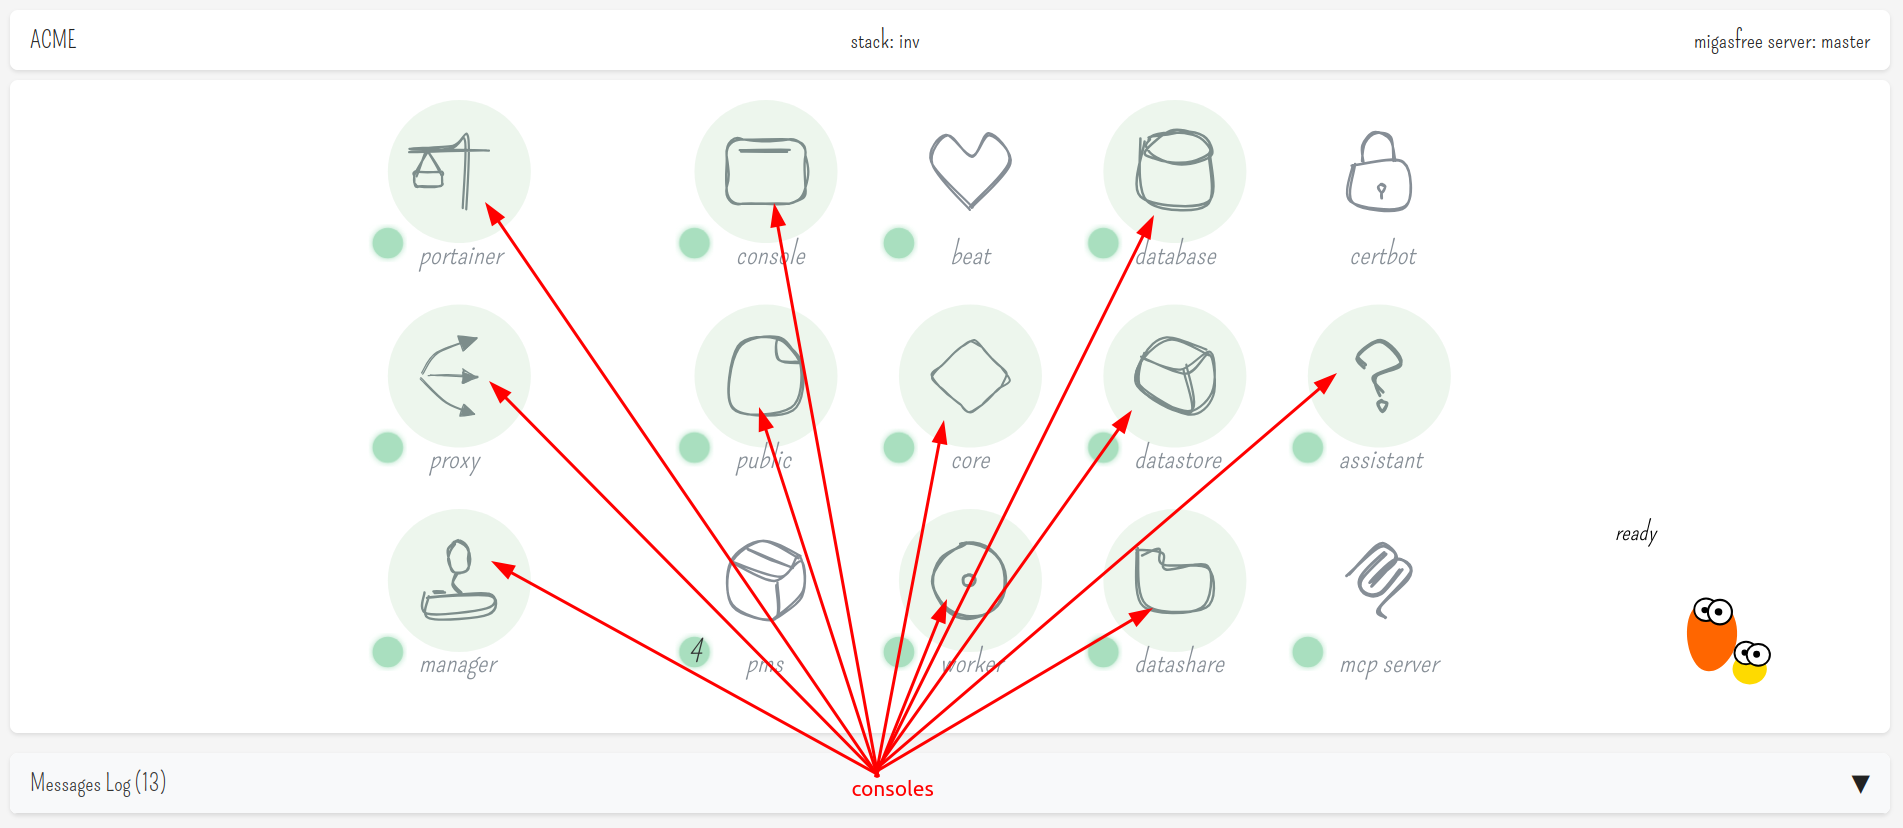
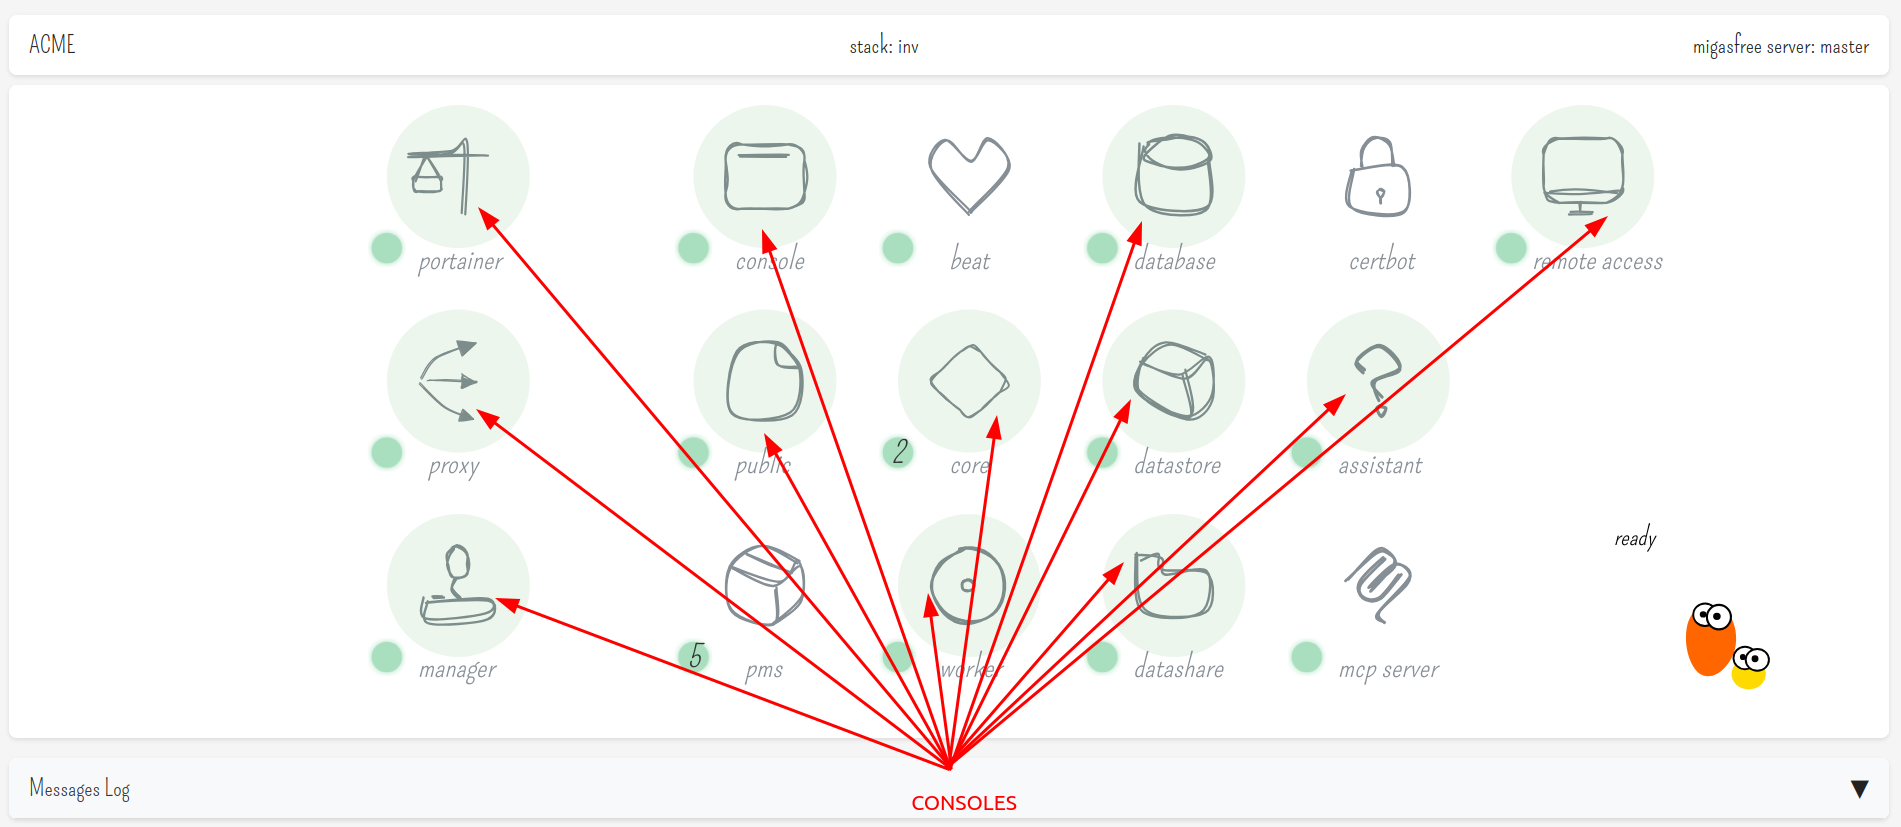
doc: complete remote access documentation

diff --git a/doc/consoles.md b/doc/consoles.md
@@ -75,3 +75,13 @@ To access the various consoles, navigate to `http://<FQDN>/status`
 
 TODO
 
+## remote access
+
+* Migasfree Remote Access provides a unified interface for connecting to your devices securely. Identify yourself with your client certificate to gain access (mTLS).
+
+  It supports the following protocols:
+    - **SSH**: Full web-based terminal access.
+    - **VNC**: Remote desktop access directly in your browser.
+    - **RDP**: Generates the necessary command to connect via a native RDP client through the secure tunnel.
+
+  ![remote-access-console](remote-access-console.png)
